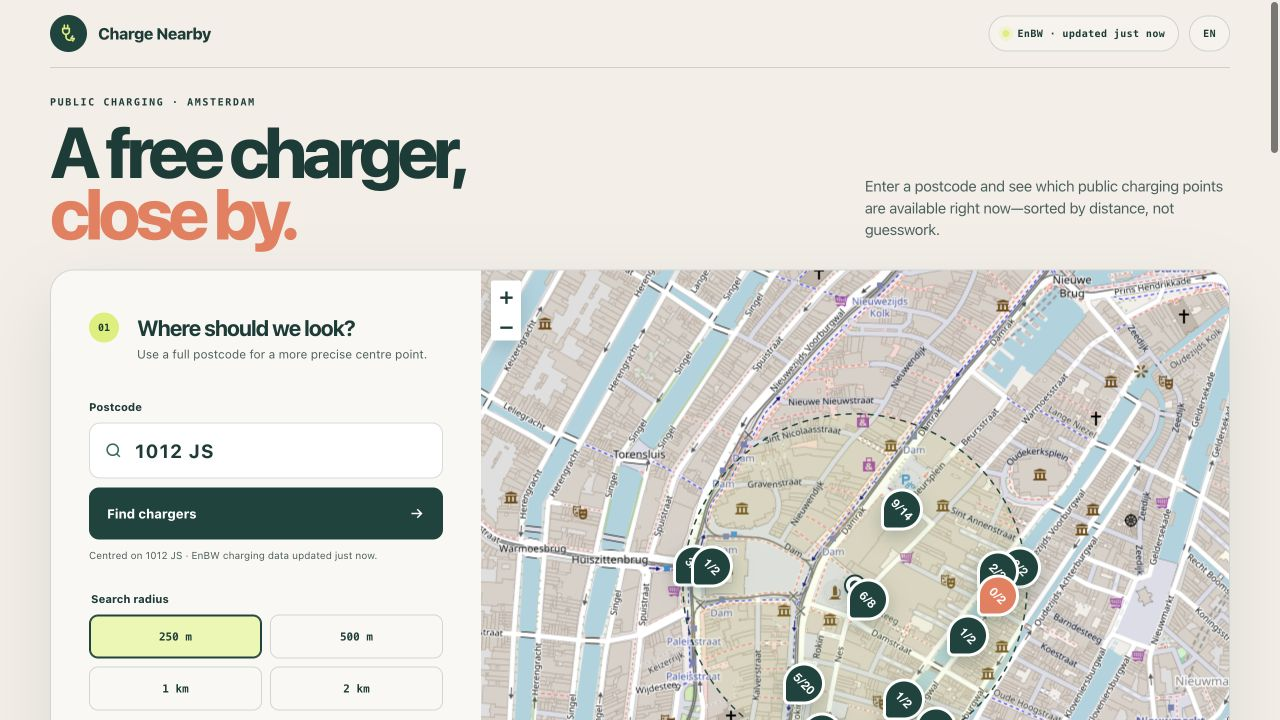
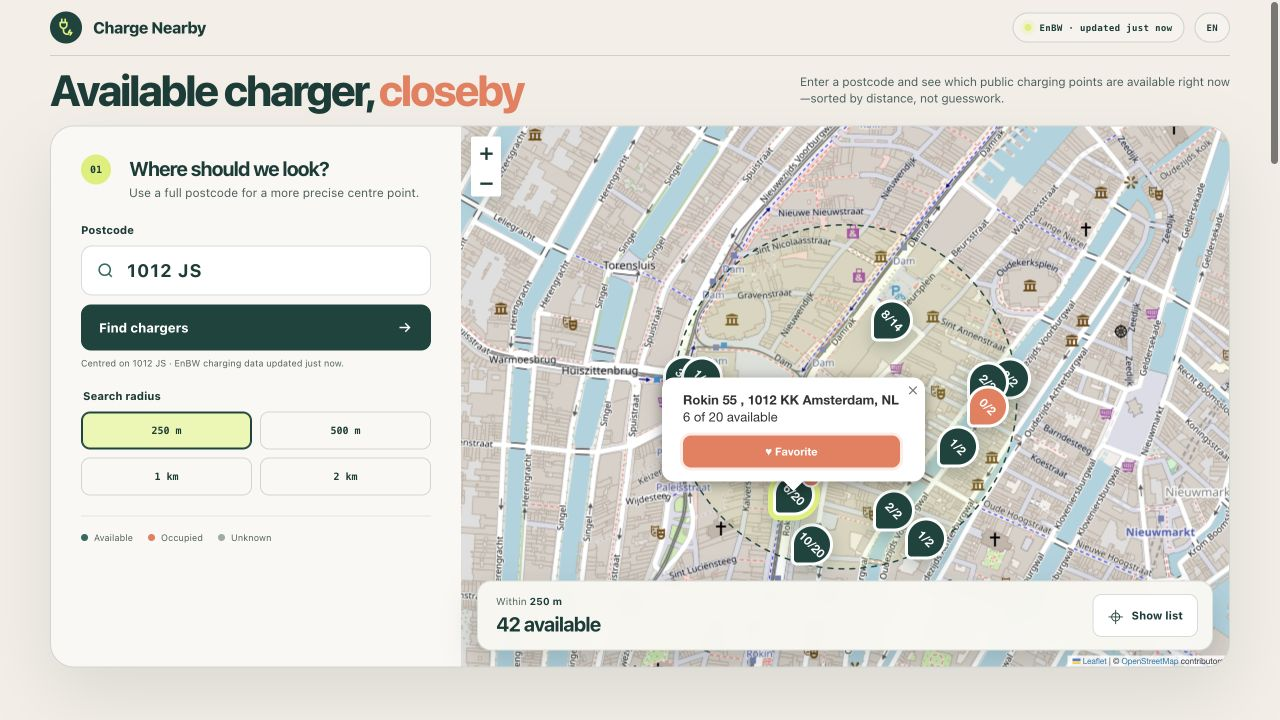
Release Charge Nearby 1.0.0

diff --git a/html/index.html b/html/index.html
@@ -18,9 +18,9 @@
   <link rel="preconnect" href="https://unpkg.com">
   <link rel="preconnect" href="https://tile.openstreetmap.org">
   <link rel="stylesheet" href="https://unpkg.com/leaflet@1.9.4/dist/leaflet.css" crossorigin="">
-  <link rel="stylesheet" href="styles.css?v=0.3.2">
+  <link rel="stylesheet" href="styles.css?v=1.0.0">
   <script src="https://unpkg.com/leaflet@1.9.4/dist/leaflet.js" crossorigin="" defer></script>
-  <script src="app.js?v=0.3.1" defer></script>
+  <script src="app.js?v=1.0.0" defer></script>
 </head>
 <body>
   <a class="skip-link" href="#results">Skip to results</a>

diff --git a/README.md b/README.md
@@ -4,6 +4,8 @@
 
 A small private-network website for finding currently available public EV charging stations around an Amsterdam postcode.
 
+Current release: **v1.0.0**
+
 The browser uses PDOK to locate the postcode. A dependency-free Node service fetches charger locations and availability from the EnBW mobility+ map backend, resolves grouped map results, briefly caches searches, and serves the frontend. The EnBW key never reaches the browser or repository.
 
 ## Screenshots
